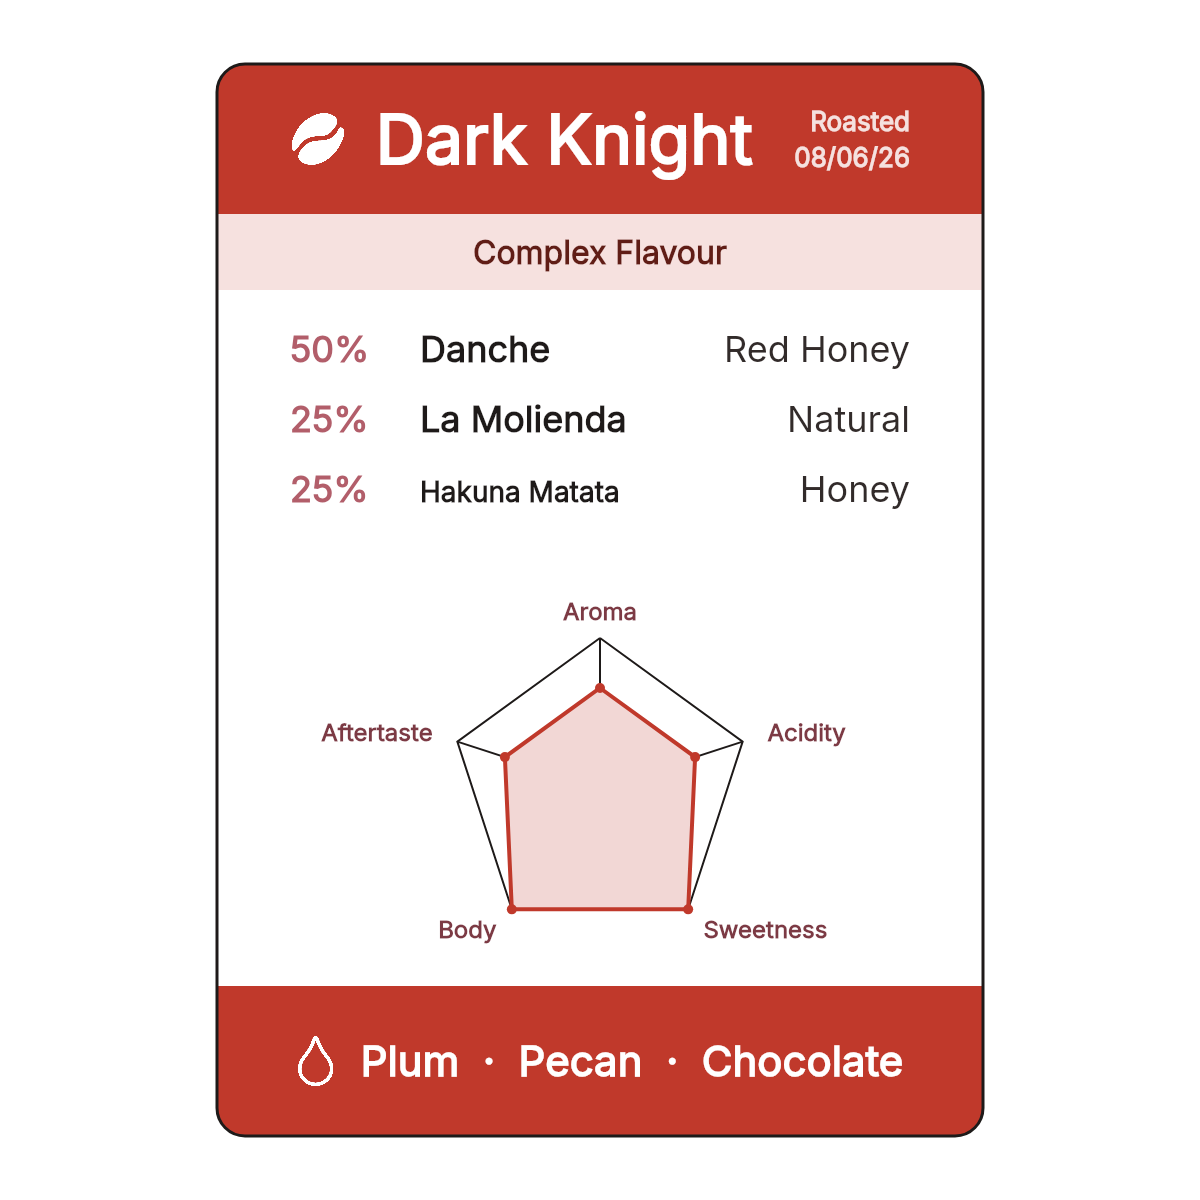
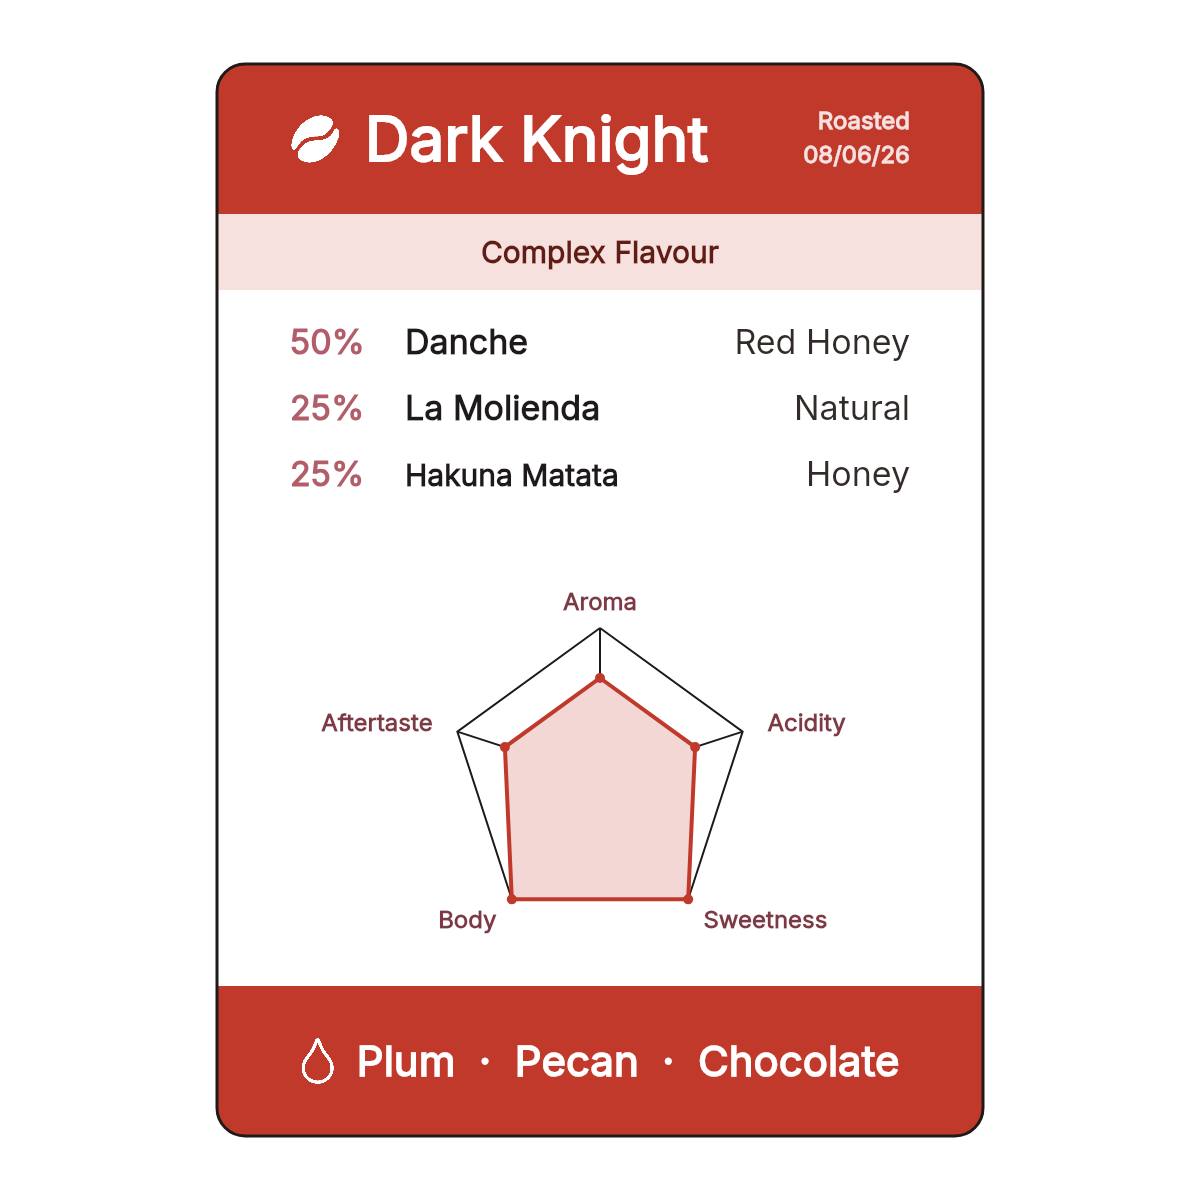
title

diff --git a/index.html b/index.html
@@ -5504,20 +5504,20 @@ fill="#6F4A36" stroke="none">
     /* ===== header banner: bean icon + name (left), Roasted / date two lines (right) ===== */
     var headH=150;
     x.fillStyle=bandCss;x.fillRect(CX,CY,CW,headH);
-    x.font='600 26px Inter, sans-serif';
+    x.font='600 24px Inter, sans-serif';
     var hrW=card.roasted?Math.max(x.measureText('Roasted').width,x.measureText(card.roasted).width):0;
     var nameX=TSX;
     if(icons&&icons.bean){
-      var bs=55,bw=bs*(icons.bean.width/icons.bean.height);
+      var bs=50,bw=bs*(icons.bean.width/icons.bean.height);
       x.drawImage(_tintIcon(icons.bean,tc,600),nameX,CY+(headH-bs)/2,bw,bs);
-      nameX+=bw+30;
+      nameX+=bw+24;
     }
-    var ns=_cardFit(x,card.name,'700',72,36,TEX-nameX-(hrW?hrW+40:0),'Inter, sans-serif');
+    var ns=_cardFit(x,card.name,'700',62,34,TEX-nameX-(hrW?hrW+40:0),'Inter, sans-serif');
     x.fillStyle=tc;x.fillText(card.name,nameX,CY+headH/2+ns*.36);
     if(card.roasted){
-      x.globalAlpha=.85;x.font='600 26px Inter, sans-serif';x.textAlign='right';
-      x.fillText('Roasted',TEX,CY+headH/2-8);
-      x.fillText(card.roasted,TEX,CY+headH/2+28);
+      x.globalAlpha=.85;x.font='600 24px Inter, sans-serif';x.textAlign='right';
+      x.fillText('Roasted',TEX,CY+headH/2-10);
+      x.fillText(card.roasted,TEX,CY+headH/2+24);
       x.textAlign='left';x.globalAlpha=1;
     }
     var cy=CY+headH;
@@ -5525,7 +5525,7 @@ fill="#6F4A36" stroke="none">
     if(card.comment){
       var subH=76;
       x.fillStyle=lt;x.fillRect(CX,cy,CW,subH);
-      var cs=_cardFit(x,card.comment,'600',32,20,TW2,'Inter, sans-serif');
+      var cs=_cardFit(x,card.comment,'600',30,20,TW2,'Inter, sans-serif');
       x.textAlign='center';x.fillStyle=dk;x.fillText(card.comment,CX+CW/2,cy+subH/2+cs*.36);
       x.textAlign='left';
       cy+=subH;
@@ -5535,9 +5535,9 @@ fill="#6F4A36" stroke="none">
     if(card.flavour&&card.flavour.length){
       x.fillStyle=bandCss;x.fillRect(CX,footY,CW,footH);
       var fl=card.flavour.join('  \u00b7  ');
-      var dw=0,ds=53,gap=26;
+      var dw=0,ds=48,gap=22;
       if(icons&&icons.drop){dw=ds*(icons.drop.width/icons.drop.height);}
-      var fsz=_cardFit(x,fl,'700',56,28,TW2-(dw?dw+gap:0),'Inter, sans-serif');
+      var fsz=_cardFit(x,fl,'700',48,26,TW2-(dw?dw+gap:0),'Inter, sans-serif');
       var tw=x.measureText(fl).width;
       var total=(dw?dw+gap:0)+tw;
       var sx=(W-total)/2;
@@ -5550,21 +5550,21 @@ fill="#6F4A36" stroke="none">
     /* ===== content: full-width rows, radar on its own centred row ===== */
     var zoneTop=cy,zoneBot=footY;
     var Lx=TSX,Rv=TEX;
-    var ry=zoneTop+72;
+    var ry=zoneTop+64;
     if(card.kind==='blend'){
       (card.recipe||[]).forEach(function(p){
         var pct=(p.pct||p.pct===0)?String(p.pct)+'%':'';
-        if(pct){x.fillStyle=BERRY;x.font='700 36px Inter, sans-serif';x.fillText(pct,Lx,ry);}
+        if(pct){x.fillStyle=BERRY;x.font='700 34px Inter, sans-serif';x.fillText(pct,Lx,ry);}
         x.fillStyle=INK;
-        _cardFit(x,p.bean,'700',36,24,TW2*0.55-(pct?130:0),'Inter, sans-serif');
-        x.fillText(p.bean,Lx+(pct?130:0),ry);
+        _cardFit(x,p.bean,'700',34,24,TW2*0.55-(pct?115:0),'Inter, sans-serif');
+        x.fillText(p.bean,Lx+(pct?115:0),ry);
         var meta=p.process||'';
         if(meta){
           x.textAlign='right';x.fillStyle='#322B2A';
-          _cardFit(x,meta,'400',36,20,TW2*0.42,'Inter, sans-serif');
+          _cardFit(x,meta,'400',34,20,TW2*0.42,'Inter, sans-serif');
           x.fillText(meta,Rv,ry);x.textAlign='left';
         }
-        ry+=70;
+        ry+=66;
       });
     }else{
       var o=card.origin||{},rows=[];
@@ -5573,11 +5573,11 @@ fill="#6F4A36" stroke="none">
       if(o.altitude)rows.push(['Altitude',o.altitude+' MASL']);
       if(o.region)rows.push(['Region',o.region]);
       rows.forEach(function(r){
-        x.fillStyle=INK;x.font='700 36px Inter, sans-serif';x.fillText(r[0],Lx,ry);
+        x.fillStyle=INK;x.font='700 34px Inter, sans-serif';x.fillText(r[0],Lx,ry);
         x.textAlign='right';x.fillStyle='#322B2A';
-        _cardFit(x,String(r[1]),'400',36,20,TW2-290,'Inter, sans-serif');
+        _cardFit(x,String(r[1]),'400',34,20,TW2-290,'Inter, sans-serif');
         x.fillText(String(r[1]),Rv,ry);
-        x.textAlign='left';ry+=70;
+        x.textAlign='left';ry+=66;
       });
       ry-=20;
     }